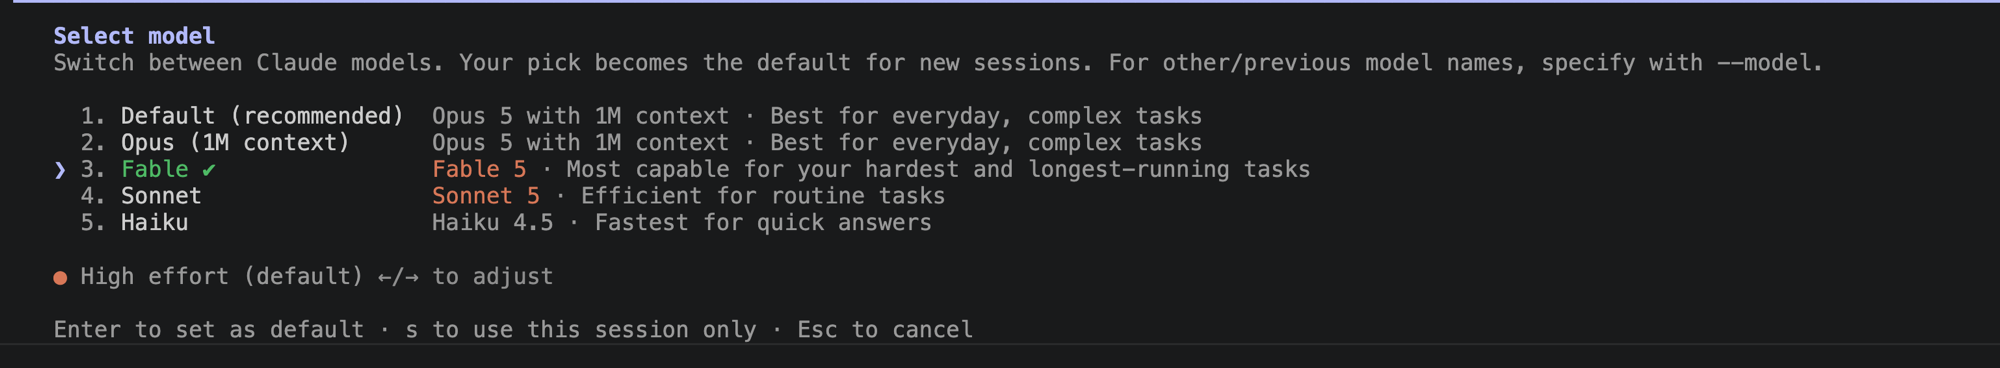
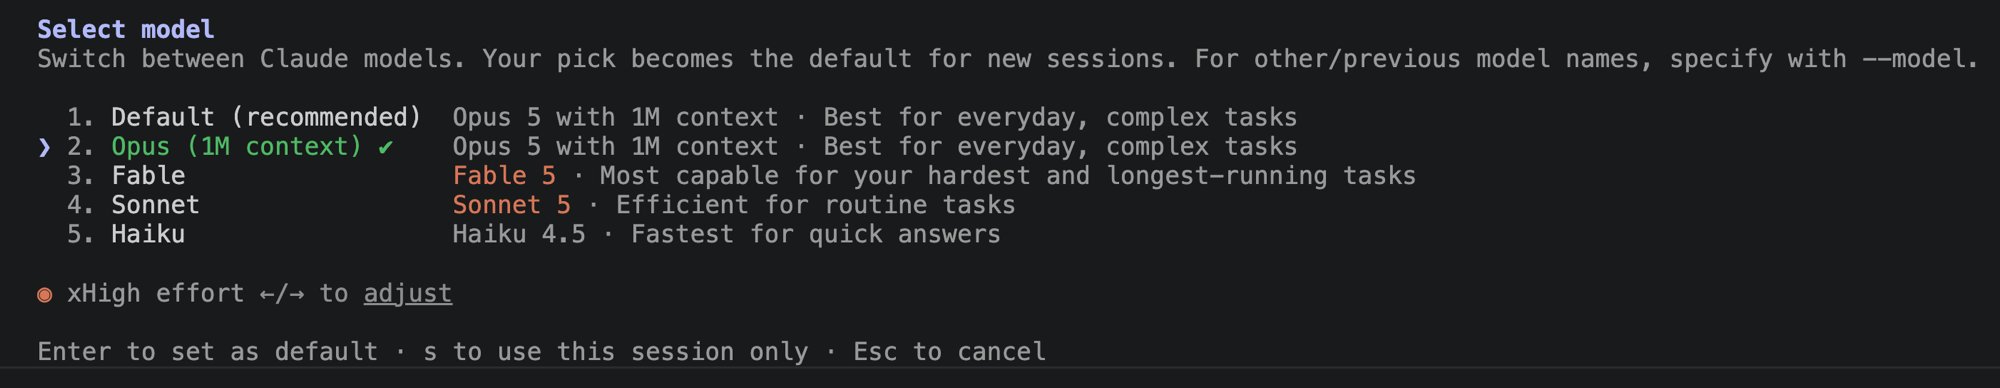
Use /model screenshot with Opus selected; align effort text to xHigh
The picture now shows the exact state professors should replicate
(green check on Opus 1M), and the effort slide reflects the xHigh
label visible in it.

diff --git a/docs/profesores/sesion1-confianza.html b/docs/profesores/sesion1-confianza.html
@@ -657,9 +657,9 @@ con Whisper, y qué tan rápido?</code></pre>
 </figure>
 </div>
 <ul>
-<li>El <strong>✓ verde</strong> marca el modelo activo; se navega con las flechas ↑/↓.</li>
+<li>Naveguen con ↑/↓ hasta <strong>Opus (1M context)</strong> y déjenlo con el <strong>✓ verde</strong>, como en la imagen. <em>Ese es el modelo del taller.</em></li>
 <li><kbd>Enter</kbd> lo fija como <strong>default</strong> para futuras sesiones · <kbd>s</kbd> lo usa <strong>solo en esta sesión</strong> · <kbd>Esc</kbd> cancela.</li>
-<li>¿Y esa línea naranja de abajo, <strong>“High effort”</strong>? → siguiente slide.</li>
+<li>¿Y esa línea naranja de abajo, <strong>“xHigh effort”</strong>? → siguiente slide.</li>
 </ul>
 </section>
 <section id="qué-significa-effort" class="slide level2 smaller">
@@ -698,8 +698,8 @@ con Whisper, y qué tan rápido?</code></pre>
 </table>
 <div class="fragment">
 <ul>
-<li><strong>Cómo se ajusta:</strong> dentro del menú <code>/model</code>, con las flechas <kbd>←</kbd>/<kbd>→</kbd> (la línea naranja cambia: low · medium · high · …).</li>
-<li><strong>Recomendación del taller: déjenlo en High</strong> (el default). El modelo además adapta solo cuánto piensa según la dificultad de cada pedido.</li>
+<li><strong>Cómo se ajusta:</strong> dentro del menú <code>/model</code>, con las flechas <kbd>←</kbd>/<kbd>→</kbd> — la línea naranja va cambiando: <em>low · medium · high · xHigh…</em></li>
+<li><strong>Recomendación del taller: déjenlo en High o xHigh.</strong> El modelo además adapta solo cuánto piensa según la dificultad de cada pedido.</li>
 </ul>
 </div>
 </section></section>
